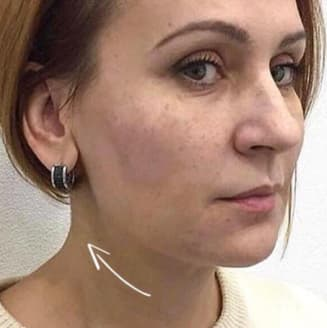
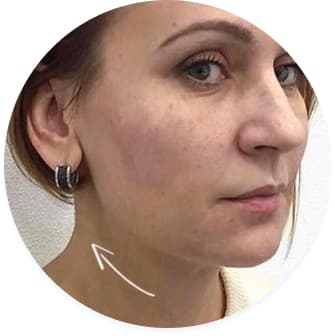
New images added, Continue with flex-boxes

diff --git a/index.html b/index.html
@@ -10,38 +10,40 @@
 
 <body>
     <header class="header">
-        <div class="container">
-            <div class="menu">
-                <a href="./index.html">
-                    <svg class="menu__logo logo" width="74" height="42">
-                        <use href="./images/icons.svg#icon-logo"></use>
-                    </svg>
-                </a>
-                <nav class="menu__navigation navigation">
-                    <ul class="menu__list">
-                        <li class="menu__line"><a class="menu__link max-accent" href="#">Про нас</a></li>
-                        <li class="menu__line"><a class="menu__link" href="#">Чому ми</a></li>
-                        <li class="menu__line"><a class="menu__link" href="#">Наші процедури</a></li>
-                        <li class="menu__line"><a class="menu__link" href="#">Контакти</a></li>
-                    </ul>
-                </nav>
-                <address class="menu__address">
-                    <a class="menu__link" href="tell:+380960000007">
-                        <svg class="menu__telephone menu__telephone_dark" width="32" height="32">
-                            <use href="./images/icons.svg#icon-telephone"></use>
+        <div class="menu">
+            <div class="container">
+                <div class="menu__container">
+                    <a href="./index.html">
+                        <svg class="menu__logo logo" width="74" height="42">
+                            <use href="./images/icons.svg#icon-logo"></use>
                         </svg>
                     </a>
-                    <a class="menu__link" href="#">
-                        <svg class="menu__facebook menu__facebook_dark" width="32" height="32">
-                            <use href="./images/icons.svg#icon-facebook"></use>
-                        </svg>
-                    </a>
-                    <a class="menu__link" href="#">
-                        <svg class="menu__instargam menu__instagram_dark" width="32" height="32">
-                            <use href="./images/icons.svg#icon-instagram"></use>
-                        </svg>
-                    </a>
-                </address>
+                    <nav class="menu__navigation navigation">
+                        <ul class="menu__list">
+                            <li class="menu__line"><a class="menu__link max-accent" href="#">Про нас</a></li>
+                            <li class="menu__line"><a class="menu__link" href="#">Чому ми</a></li>
+                            <li class="menu__line"><a class="menu__link" href="#">Наші процедури</a></li>
+                            <li class="menu__line"><a class="menu__link" href="#">Контакти</a></li>
+                        </ul>
+                    </nav>
+                    <address class="menu__address">
+                        <a class="menu__link" href="tell:+380960000007">
+                            <svg class="menu__telephone menu__telephone_dark" width="32" height="32">
+                                <use href="./images/icons.svg#icon-telephone"></use>
+                            </svg>
+                        </a>
+                        <a class="menu__link" href="#">
+                            <svg class="menu__facebook menu__facebook_dark" width="32" height="32">
+                                <use href="./images/icons.svg#icon-facebook"></use>
+                            </svg>
+                        </a>
+                        <a class="menu__link" href="#">
+                            <svg class="menu__instargam menu__instagram_dark" width="32" height="32">
+                                <use href="./images/icons.svg#icon-instagram"></use>
+                            </svg>
+                        </a>
+                    </address>
+                </div>
             </div>
         </div>
     </header>
@@ -49,7 +51,7 @@
         <section class="front">
             <div class="container">
                 <div class="front__container">
-                    <div class="front__container front__container_inner">
+                    <div class="front__form">
                         <p class="front__text">Косметологічна клініка</p>
                         <h1 class="front__title title">
                             Beauty
@@ -68,29 +70,43 @@
         </section>
         <section class="presentation">
             <div class="container">
-                <svg class="presentation__star-1" width="48" height="48">
-                    <use href="./images/icons.svg#icon-star-1"></use>
-                </svg>
-                <svg class="presentation__star-2" width="48" height="48">
-                    <use href="./images/icons.svg#icon-star-2"></use>
-                </svg>
-                <svg class="presentation__star-3" width="48" height="48">
-                    <use href="./images/icons.svg#icon-star-3"></use>
-                </svg>
-                <h2 class="presentation_title title">
-                    Перевтілюйтесь
-                    <br><span class="max-accent">в beauty zone!</span>
-                </h2>
-                <p class="presentation__text">
-                    Наша косметологічна клініка пропонує вам професійні послуги
-                    <br>з догляду за шкірою обличчя та тіла.
-                </p>
-                <p class="presentation__text">
-                    B <span class="mini-accent">Beauty Zone</span> ми гарантуємо найвищі стандарти якості
-                    <br>та приємний сервіс. Наші косметологічні процедури та препарати
-                    <br>допоможуть вам підтримувати свою красу та молодість.
-                    <br>З нами краса назавжди!
-                </p>
+                <div class="presentation__container">
+                    <div class="presentation__text-box">
+                        <h2 class="presentation_title title">
+                            Перевтілюйтесь
+                            <br><span class="max-accent">в beauty zone!</span>
+                        </h2>
+                        <p class="presentation__text">
+                            Наша косметологічна клініка пропонує вам професійні послуги
+                            <br>з догляду за шкірою обличчя та тіла.
+                        </p>
+                        <p class="presentation__text">
+                            B <span class="mini-accent">Beauty Zone</span> ми гарантуємо найвищі стандарти якості
+                            <br>та приємний сервіс. Наші косметологічні процедури та препарати
+                            <br>допоможуть вам підтримувати свою красу та молодість.
+                            <br>З нами краса назавжди!
+                        </p>
+                    </div>
+                    <div class="presentation__results">
+                        <div class="presentation__before">
+                            <img class="presentation__before-photo" src="./images/before.jpg" alt="Face before">
+                            <div class="presentation__stars-pair">
+                                <svg class="presentation__star-2" width="48" height="48">
+                                    <use href="./images/icons.svg#icon-star-2"></use>
+                                </svg>
+                                <svg class="presentation__star-3" width="48" height="48">
+                                    <use href="./images/icons.svg#icon-star-3"></use>
+                                </svg>
+                            </div>
+                        </div>
+                        <div class="presentation__after">
+                            <img class="presentation__after-photo" src="./images/after.jpg" alt="Face after">
+                            <svg class="presentation__star-1" width="48" height="48">
+                                <use href="./images/icons.svg#icon-star-1"></use>
+                            </svg>
+                        </div>
+                    </div>
+                </div>
             </div>
         </section>
         <section class="advantages">

diff --git a/css/styles.css b/css/styles.css
@@ -88,7 +88,9 @@ a {
 }
 
 /* Menu */
-.menu {
+.menu {}
+
+.menu__container {
     display: flex;
     align-items: center;
     padding: 53px 0;
@@ -157,14 +159,19 @@ a {
 .front {}
 
 .front__container {
-    max-width: 530px;
-    /* height: 408px; */
-}
-
-.front__container_inner {
     display: flex;
     flex-direction: column;
+    align-items: start;
+    padding-left: 152px;
+    margin-bottom: 126px;
+}
+
+.front__form {
+    display: flex;
+    max-width: 530px;
+    flex-direction: column;
     align-items: flex-start;
+    /* height: 408px; */
 }
 
 .front__text {
@@ -198,7 +205,6 @@ a {
     font-weight: 700;
     line-height: 74px;
     letter-spacing: 0em;
-    text-align: center;
     margin: 0;
     padding: 0;
 }
@@ -245,7 +251,20 @@ a {
 /* Presentation Section */
 .presentation {}
 
-.presentation__title {}
+.presentation__container {
+    display: flex;
+    gap: 32px;
+    max-height: 695px;
+}
+
+.presentation__text-box {
+    align-items: start;
+    flex-basis: calc(100% / 2);
+}
+
+.presentation__title {
+    text-align: left;
+}
 
 .presentation__text {
     color: var(--primary-color-2);
@@ -254,15 +273,57 @@ a {
     font-weight: 400;
     line-height: 38px;
     letter-spacing: 0em;
-    text-align: center;
+    text-align: left;
 }
+
+.presentation__results {
+    display: flex;
+    flex-grow: 1;
+    flex-direction: column;
+    gap: 40px;
+    flex-basis: calc((100% / 2)-40px);
+}
+
+.presentation__before {
+    display: flex;
+    justify-content: space-between;
+}
+
+.presentation__before-photo {
+    width: 328px;
+    height: 328px;
+}
+
+.presentation__stars-pair {
+    display: flex;
+    flex-direction: column;
+    justify-content: space-between;
+}
+
+.presentation__star-2 {}
+
+.presentation__star-3 {}
+
+.presentation__after {
+    display: flex;
+    flex-direction: row-reverse;
+}
+
+.presentation__after-photo {
+    width: 328px;
+    height: 328px;
+}
+
+.presentation__star-1 {}
 
 /* Advantages Section */
 .advantages {
     background-image: linear-gradient(38.2deg, rgba(43, 127, 255, 0.2) 39.74%, rgba(43, 127, 255, 0) 54.16%, rgba(43, 127, 255, 0) 66.66%);
 }
 
-.advantages__title {}
+.advantages__title {
+    text-align: center;
+}
 
 .advantages__list {}
 
@@ -279,7 +340,9 @@ a {
 /* Procedures Section */
 .procedures {}
 
-.procedures__title {}
+.procedures__title {
+    text-align: center;
+}
 
 .procedures__button {
     display: flex;
@@ -312,7 +375,9 @@ a {
 /* Contacts Section */
 .contacts {}
 
-.contacts__title {}
+.contacts__title {
+    text-align: center;
+}
 
 .contacts__map {}
 
